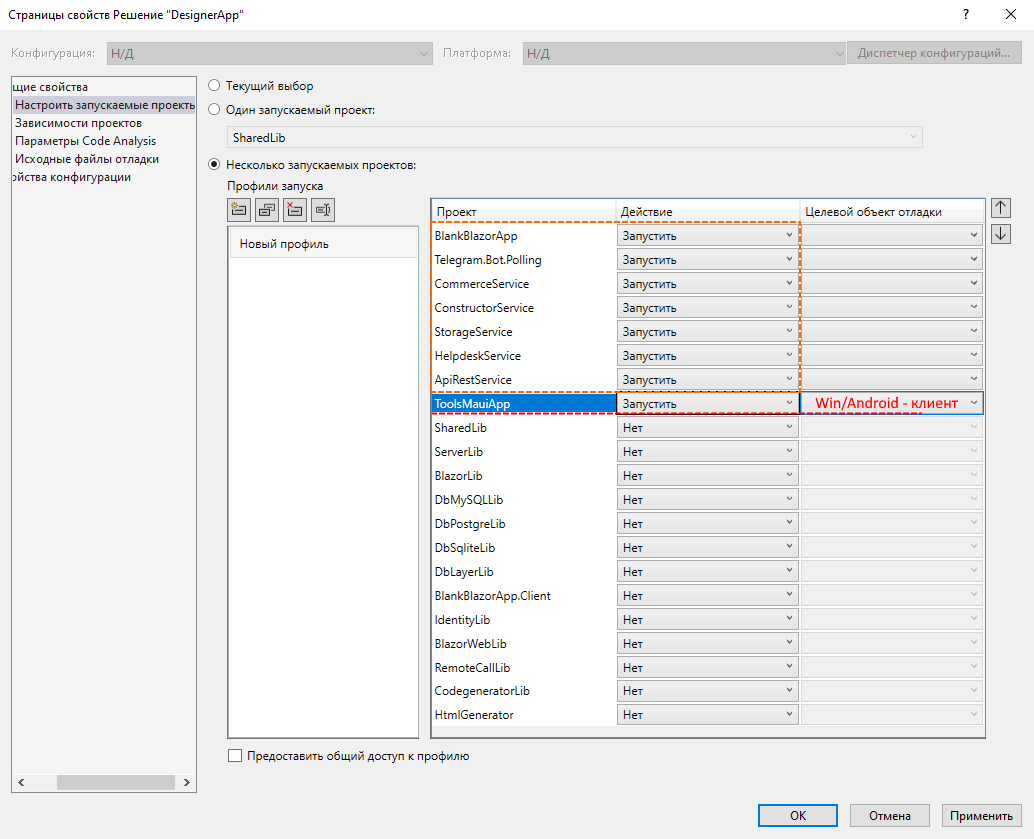
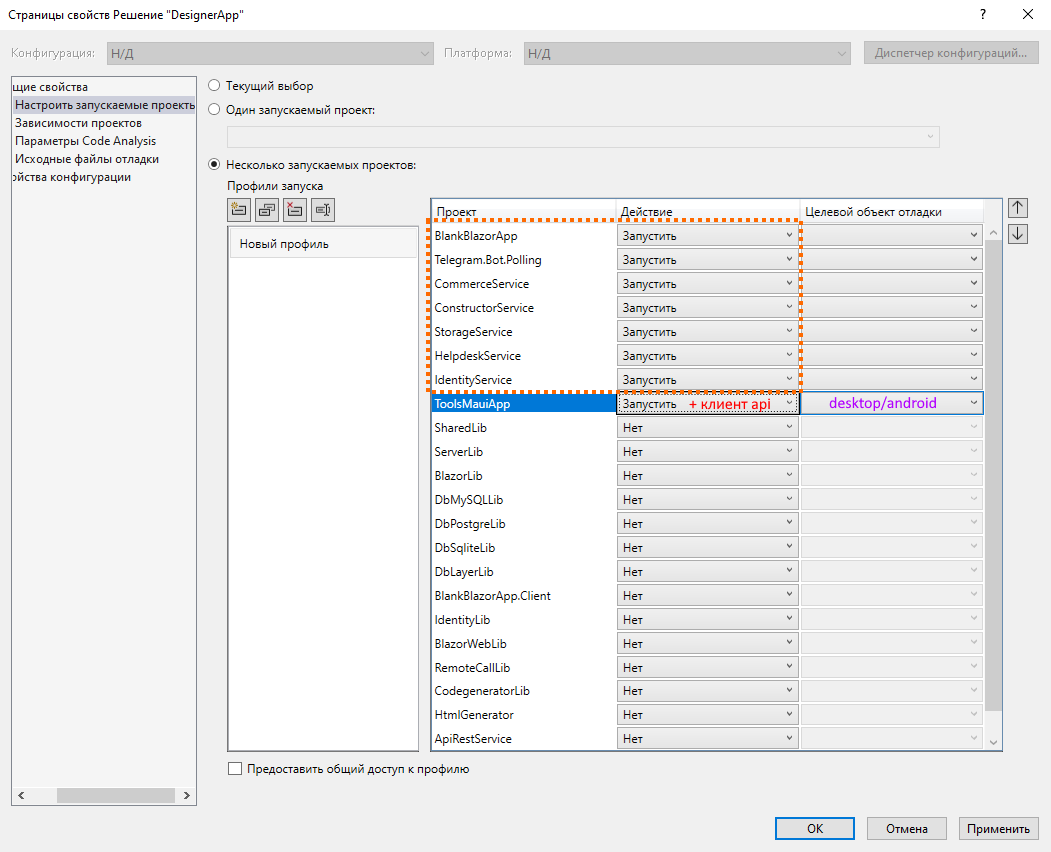
~

diff --git a/IdentityService/Services/IdentityTools.cs b/IdentityService/Services/IdentityTools.cs
@@ -205,7 +205,26 @@ public class IdentityTools(
     }
 
     /// <inheritdoc/>
-    public async Task<RegistrationNewUserResponseModel> CreateNewUserAsync(RegisterNewUserPasswordModel req)
+    public async Task<RegistrationNewUserResponseModel> CreateNewUserAsync(SimpleUserIdentityModel req)
+    {
+        IUserEmailStore<ApplicationUser> emailStore = GetEmailStore();
+        ApplicationUser user = IdentityStatic.CreateInstanceUser();
+        await userStore.SetUserNameAsync(user, req.Email, CancellationToken.None);
+        await emailStore.SetEmailAsync(user, req.Email, CancellationToken.None);
+
+        IdentityResult result = await userManager.CreateAsync(user);
+
+        return new()
+        {
+            RequireConfirmedAccount = userManager.Options.SignIn.RequireConfirmedAccount,
+            RequireConfirmedEmail = userManager.Options.SignIn.RequireConfirmedEmail,
+            RequireConfirmedPhoneNumber = userManager.Options.SignIn.RequireConfirmedPhoneNumber,
+            Response = user.Id,
+        };
+    }
+
+    /// <inheritdoc/>
+    public async Task<RegistrationNewUserResponseModel> CreateNewUserWithPasswordAsync(RegisterNewUserPasswordModel req)
     {
         ApplicationUser user = IdentityStatic.CreateInstanceUser();
 

diff --git a/SharedLib/Models/user/SimpleUserIdentityModel.cs b/SharedLib/Models/user/SimpleUserIdentityModel.cs
@@ -1,0 +1,24 @@
+////////////////////////////////////////////////
+// © https://github.com/badhitman - @FakeGov 
+////////////////////////////////////////////////
+
+using System.ComponentModel.DataAnnotations;
+
+namespace SharedLib;
+
+/// <summary>
+/// SimpleUserIdentityModel
+/// </summary>
+public class SimpleUserIdentityModel
+{
+    /// <summary>
+    /// Логин пользователя для авторизации сессии
+    /// </summary>
+    [EmailAddress]
+    public required string Email { get; set; }
+
+    /// <summary>
+    /// BaseAddress
+    /// </summary>
+    public required string BaseAddress { get; set; }
+}

diff --git a/SharedLib/IServices/main/IIdentityTools.cs b/SharedLib/IServices/main/IIdentityTools.cs
@@ -14,7 +14,12 @@ public interface IIdentityTools
     /// <summary>
     /// CreateNewUserAsync
     /// </summary>
-    public Task<RegistrationNewUserResponseModel> CreateNewUserAsync(RegisterNewUserPasswordModel req);
+    public Task<RegistrationNewUserResponseModel> CreateNewUserAsync(SimpleUserIdentityModel req);
+
+    /// <summary>
+    /// CreateNewUserAsync
+    /// </summary>
+    public Task<RegistrationNewUserResponseModel> CreateNewUserWithPasswordAsync(RegisterNewUserPasswordModel req);
 
     /// <summary>
     /// Установить пользователю Claim`s[TelegramId, FirstName, LastName, PhoneNum]

diff --git a/IdentityService/Services/Receives/CreateNewUserWithPasswordReceive.cs b/IdentityService/Services/Receives/CreateNewUserWithPasswordReceive.cs
@@ -24,6 +24,6 @@ public class CreateNewUserWithPasswordReceive(IIdentityTools idRepo, ILogger<Cre
     {
         ArgumentNullException.ThrowIfNull(req);
         loggerRepo.LogWarning(JsonConvert.SerializeObject(req, GlobalStaticConstants.JsonSerializerSettings));
-        return await idRepo.CreateNewUserAsync(req);
+        return await idRepo.CreateNewUserWithPasswordAsync(req);
     }
 }

diff --git a/ServerLib/Services/UsersAuthenticateService.cs b/ServerLib/Services/UsersAuthenticateService.cs
@@ -183,7 +183,6 @@ public class UsersAuthenticateService(
 
         IUserEmailStore<ApplicationUser> emailStore = GetEmailStore();
         ApplicationUser user = IdentityStatic.CreateInstanceUser();
-
         await userStore.SetUserNameAsync(user, userEmail, CancellationToken.None);
         await emailStore.SetEmailAsync(user, userEmail, CancellationToken.None);
 

diff --git a/README.md b/README.md
@@ -36,6 +36,7 @@ note for DbPostgreLib "Если используется другая СУБД, 
     BlankBlazorApp_Client  <|-- BlankBlazorApp
 	BlazorWebLib  <|-- BlankBlazorApp
 	ServerLib  <|-- BlankBlazorApp
+	IdentityService  <|-- BlankBlazorApp
     RemoteCallLib <|-- Telegram_Bot_Polling
 	DbPostgreLib <|-- Telegram_Bot_Polling
     RemoteCallLib <|-- StorageService
@@ -72,38 +73,43 @@ note for DbPostgreLib "Если используется другая СУБД, 
     class RemoteCallLib{
         Трансмиссия
     }
-    class StorageService{
-        @Микросервис
-    }
-    class ConstructorService{
-        @Микросервис
-    }
-    class HtmlGenerator{
-        Внешний репозиторий
-    }
-    class BlankBlazorApp{
-        @Микросервис
-    }
     class BlankBlazorApp_Client["BlankBlazorApp.Client"]{
         CSR Blazor WebAssembly
-    }
-    class Telegram_Bot_Polling["Telegram.Bot.Polling"]{
-        @Микросервис
     }
     class BlazorWebLib{
         SSR Blazor Server
     }
+
+    class BlankBlazorApp{
+        @Микросервис - Вебсервер/ServerSideRender
+    }
+    class IdentityService{
+        @Микросервис - Пользователи/Регистрация/Авторизация
+    }
+    class StorageService{
+        @Микросервис - Файлы/Тэги/CMS
+    }
+    class ConstructorService{
+        @Микросервис - ВебКонструктор/ВебФормы
+    }
+    class Telegram_Bot_Polling["Telegram.Bot.Polling"]{
+        @Микросервис - TelegramBot/Wappi
+    }
     class HelpdeskService{
-        @Микросервис        
+        @Микросервис - Хелпдеск/Сервисдеск/Таскменеджер
     }
     class CommerceService{
-        @Микросервис        
+        @Микросервис - Склад/Продажи/Расписания
     }
     class ApiRestService{
-        @Микросервис        
+        @Микросервис - Api/Rest
     }
     class ToolsMauiApp{
-      @Win/Android Клиент
+      @Клиент - Win/Android
+    }
+
+    class HtmlGenerator{
+        Внешний репозиторий
     }
 ```
 
@@ -123,6 +129,10 @@ note for DbPostgreLib "Если используется другая СУБД, 
 - Авторизация типовая `Microsoft.AspNetCore.Identity` ([documents](https://learn.microsoft.com/ru-ru/aspnet/core/security/authentication/identity?view=aspnetcore-8.0&tabs=visual-studio)).
 - В Frontend добавлен базовый функционал для работы с Пользователями, Ролями, Claims и Telegram[^4]. 
 - Служба равно как и другие службы использует RabbitMQ для обслуживания входящих команд, на которые она зарегистрировала свои обработчики[^1]. Кроме того, Web служба обрабатывает запросы для [Identity](https://learn.microsoft.com/ru-ru/aspnet/core/security/authentication/identity?view=aspnetcore-8.0&tabs=visual-studio). У Identity свой автономный контекст БД.
+
+#### [IdentityService](https://github.com/badhitman/DesignerApp/tree/main/IdentityService)
+- Управление пользователями: регистрация, авторизация и т.д.
+- Управление ролями (правами) пользователей
 
 #### [HelpdeskService](https://github.com/badhitman/DesignerApp/tree/main/HelpdeskService) 
 - Система документооборота со своим собственным контекстом: `HelpdeskContext`.
